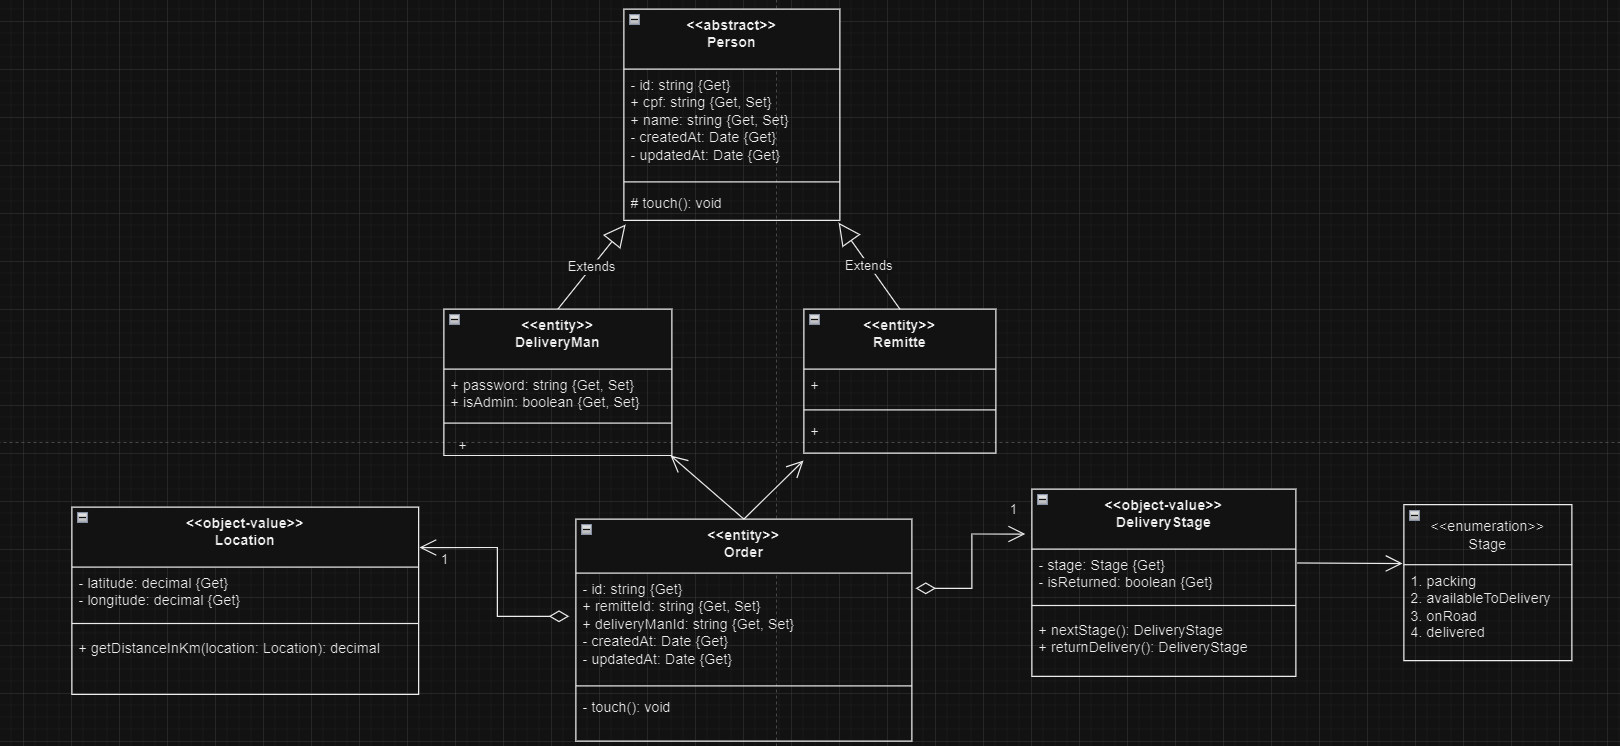
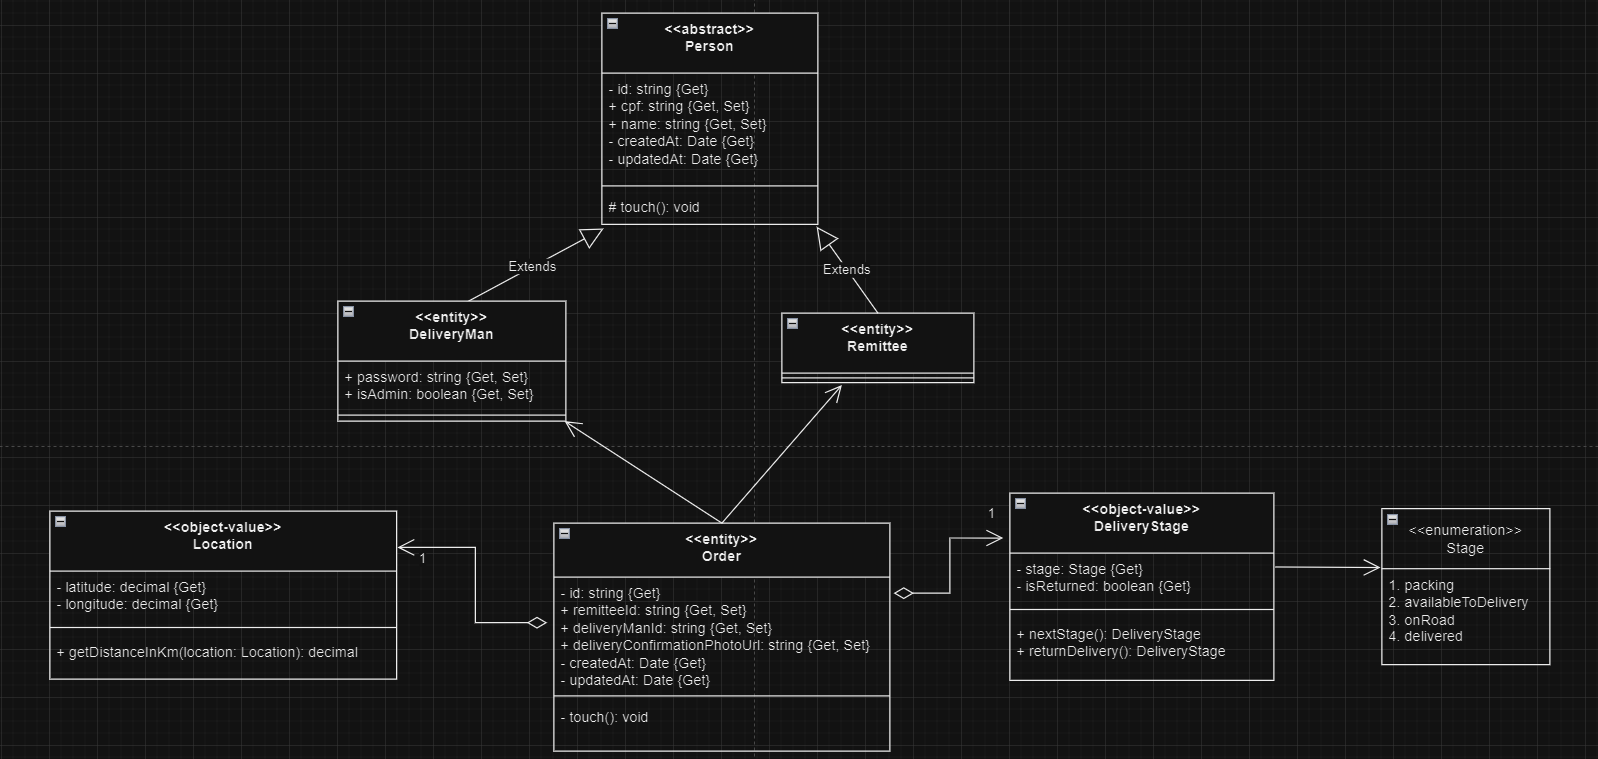
docs: more changes on shipping class diagram

diff --git a/src/domain/shipping/enterprise/entities/order.ts b/src/domain/shipping/enterprise/entities/order.ts
@@ -4,21 +4,22 @@ import { Optional } from "../../../core/types/optional";
 import { DeliveryStage } from "../object-values/delivery-stage";
 
 interface OrderProps {
-  remitteId: UniqueEntityId;
+  remitteeId: UniqueEntityId;
   deliveryManId: UniqueEntityId;
   deliveryLocation: Location;
   deliveryStage: DeliveryStage;
+  deliveryConfirmationPhotoUrl?: string | null;
   createdAt: Date;
   updatedAt?: Date | null;
 }
 
 export class Order extends Entity<OrderProps> {
   get remitteId() {
-    return this.props.remitteId;
+    return this.props.remitteeId;
   }
 
-  set remitteId(remitteId: UniqueEntityId) {
-    this.props.remitteId = remitteId;
+  set remitteId(remitteeId: UniqueEntityId) {
+    this.props.remitteeId = remitteeId;
     this.touch();
   }
 
@@ -48,6 +49,14 @@ export class Order extends Entity<OrderProps> {
     this.deliveryStage = stage;
   }
 
+  get deliveryConfirmationPhotoUrl(): string | null | undefined {
+    return this.props.deliveryConfirmationPhotoUrl;
+  }
+
+  set deliveryConfirmationPhotoUrl(url: string) {
+    this.props.deliveryConfirmationPhotoUrl = url;
+  }
+
   get createdAt() {
     return this.props.createdAt;
   }
@@ -66,10 +75,11 @@ export class Order extends Entity<OrderProps> {
   ) {
     return new Order(
       {
-        remitteId: props.remitteId,
+        remitteeId: props.remitteeId,
         deliveryManId: props.deliveryManId,
         deliveryLocation: props.deliveryLocation,
         deliveryStage: props.deliveryStage ?? new DeliveryStage(),
+        deliveryConfirmationPhotoUrl: props.deliveryConfirmationPhotoUrl,
         createdAt: props.createdAt ?? new Date(),
         updatedAt: props.updatedAt,
       },

diff --git a/README.md b/README.md
@@ -32,7 +32,7 @@ O desafio consiste em desenvolver uma API para controle de encomendas de uma tra
 - [ ] Somente usuário do tipo admin pode realizar operações de CRUD dos destinatários
 - [ ] Para marcar uma encomenda como entregue é obrigatório o envio de uma foto
 - [ ] Somente o entregador que retirou a encomenda pode marcar ela como entregue
-- [ ] Somente o admin pode alterar a senha de um usuário
+- [x] Somente o admin pode alterar a senha de um usuário
 - [ ] Não deve ser possível um entregador listar as encomendas de outro entregador
 
 ### Diagrama de classes
